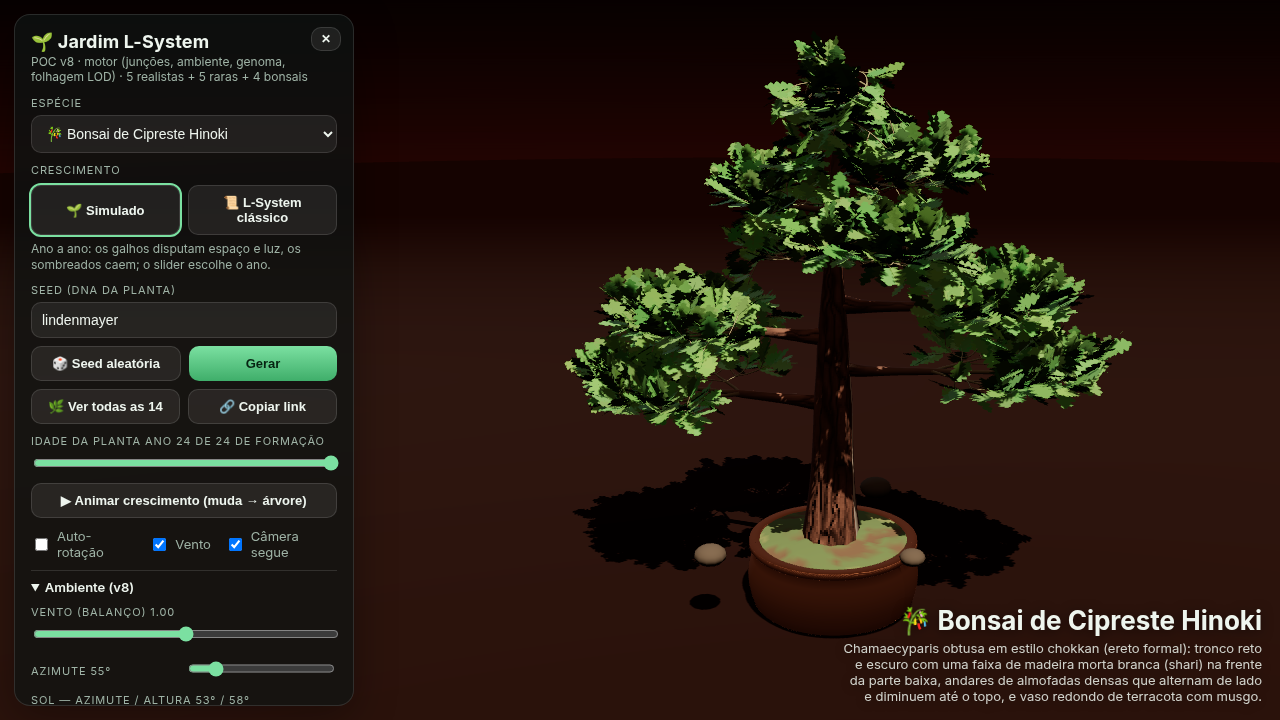
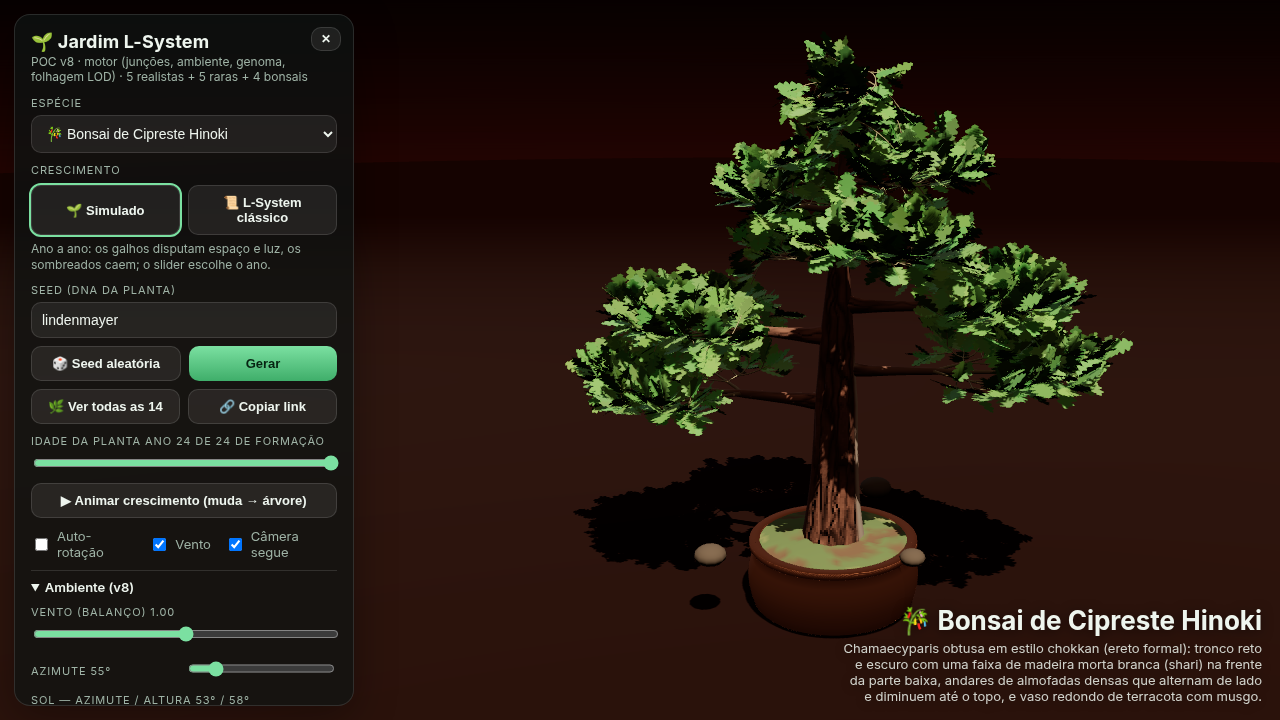
fix(v8): veio liso na madeira morta do junípero
O pontilhado era o shader da v7: seno de alta frequência e picos
no relevo. O shari/jin passa a ser prata contínua com sulcos longos
ao longo da torção, só no junípero e no cipreste.

diff --git a/index.html b/index.html
@@ -452,26 +452,28 @@ vec3 lsBark(vec3 base, vec3 nW){
   }
 #endif
 #ifdef LS_DEAD
-  { // v6: madeira morta do bonsai (shari no tronco, jin nos galhos): faixa em espiral no ângulo do tubo, branca/prateada e com veios
-    // uFx = (cobertura 0–1 da volta, torção rad/unidade de arco, arco máximo, fase) · uFx2 = (raio relativo mínimo, —, freq. dos veios, borda)
+  { // madeira morta: faixa em espiral, prata contínua com veios longos ao longo da torção
+    // uFx = (cobertura 0–1 da volta, torção rad/unidade de arco, arco máximo, fase) · uFx2 = (raio relativo mínimo, —, legado, borda)
+    // O veio antigo (seno ~27 ciclos/volta + ruído num círculo de raio uFx2.z, depois smoothstep nos picos)
+    // virava uma grade de pontos escuros — a v7 tinha o mesmo termo. Aqui o grão é esticado no arco.
     float th = atan(vFx.y, vFx.x), arc = vFx.z;
     float sp = th - uFx.y * arc - uFx.w;
-    float wob = 0.35 * (lsN(vec3(arc * 1.3, cos(sp) * 1.5, sin(sp) * 1.5) + 17.0) - 0.5);
+    float wob = 0.1 * (lsN(vec3(arc * 0.22, sp * 0.25, 17.0)) - 0.5);
     float c = cos(sp + wob);
-    float band = smoothstep(cos(3.14159 * uFx.x) - 0.04, cos(3.14159 * uFx.x) + 0.04, c);
+    float band = smoothstep(cos(3.14159 * uFx.x) - 0.1, cos(3.14159 * uFx.x) + 0.1, c);
     float rel = vMt.y / uRmax;
     float dead = band * (1.0 - smoothstep(uFx.z * 0.85, uFx.z, arc)) * smoothstep(uFx2.x * 0.7, uFx2.x, rel);
     dead = max(dead, step(0.5, vFx.w));                                  // jin: o galho inteiro morto
     dead *= smoothstep(0.05, 0.35, vMt.x);                               // a madeira morta é trabalhada com os anos
-    float grain = lsN(vec3(cos(sp) * uFx2.z, sin(sp) * uFx2.z, arc * 0.6));
-    float vein = 0.5 + 0.5 * sin((sp * 9.0 + 6.0 * grain) * uFx2.z * 0.5);
-    float crack = smoothstep(0.92, 0.99, vein) * detail;
-    vec3 dw = vec3(0.86, 0.84, 0.8) * (0.78 + 0.22 * grain) * (1.0 - 0.45 * crack);
-    float lip = smoothstep(0.0, uFx2.w, band) * (1.0 - smoothstep(uFx2.w, uFx2.w * 2.5, band)) * (1.0 - step(0.5, vFx.w));
+    float fiber = lsN(vec3(sp * 0.4, arc * 0.14, 4.0));                  // manchas longas ao longo do eixo
+    float line = 0.5 + 0.5 * sin(sp * 2.3 + 1.1 * lsN(vec3(arc * 0.2, 1.7, sp * 0.12)));
+    float crease = smoothstep(0.66, 0.28, line);                         // sulco largo, contínuo, sem pico isolado
+    vec3 dw = vec3(0.92, 0.90, 0.86) * (0.94 + 0.08 * fiber) * (1.0 - 0.13 * crease);
+    float lip = smoothstep(0.0, uFx2.w, band) * (1.0 - smoothstep(uFx2.w, uFx2.w * 3.0, band)) * (1.0 - step(0.5, vFx.w));
     col = mix(col, dw, dead);
-    col *= 1.0 - 0.35 * lip * dead;                                       // borda escura onde a casca viva enrola
-    hh = mix(hh, 0.4 + 0.25 * grain - 0.3 * crack, dead) + 0.25 * lip * dead;
-    lsRough = mix(lsRough, 0.75, dead);
+    col *= 1.0 - 0.18 * lip * dead;                                       // borda suave onde a casca viva enrola
+    hh = mix(hh, 0.72 + 0.05 * fiber - 0.045 * crease, dead) + 0.06 * lip * dead;
+    lsRough = mix(lsRough, 0.58, dead);
   }
 #endif
   // musgo nas faces viradas para cima da madeira velha

diff --git a/docs/ARQUITETURA.md b/docs/ARQUITETURA.md
@@ -272,5 +272,5 @@ A montagem pesada (L-System ou simulação) roda em `plant-worker.mjs` (`buildSk
 
 Por padrão os genes são **mostrados** e não aplicados, a gravidade e o fototropismo começam em 0 e a sombra da simulação continua vertical — o visual padrão acompanha a v7. Cruzar, mutar ou mover um gene passa a aplicar o genoma (`&genoma=` no hash).
 
-Junções: esferas só nas forquilhas grossas (tronco e andaime, inclusive o carvalho), com material simples de casca. No junípero e no cipreste a madeira morta continua o veio contínuo do shader (`LS_DEAD`), sem furar o tubo. Raízes de superfície desviam de três pedras semeadas e, no bonsai, permanecem dentro da elipse do vaso. No jardim a folhagem fica na densidade da v7 (no máximo 1 em cada 2 folhas, desenhadas maiores); o impostor só entra quando a planta ocupa menos de ~40 px.
+Junções: esferas só nas forquilhas grossas (tronco e andaime, inclusive o carvalho), com material simples de casca. No junípero e no cipreste a madeira morta é um veio longo e contínuo no shader (`LS_DEAD`): a v7 pontilhava a faixa com um seno de alta frequência. Sem furos no tubo. Raízes de superfície desviam de três pedras semeadas e, no bonsai, permanecem dentro da elipse do vaso. No jardim a folhagem fica na densidade da v7 (no máximo 1 em cada 2 folhas, desenhadas maiores); o impostor só entra quando a planta ocupa menos de ~40 px.
 

diff --git a/docs/HISTORICO.md b/docs/HISTORICO.md
@@ -7,7 +7,7 @@ Datas no horário de Brasília (UTC−3).
 - Visual padrão de novo alinhado à v7: genes só mudam a planta quando o usuário cruza, muta ou edita um controle. Gravidade e fototropismo começam em zero. A sombra simulada volta a cair na vertical até o sol sair do padrão.
 - Junções nas forquilhas grossas (inclui o carvalho), sem a malha que furava o junípero. Shari/jin entalhados no tubo.
 - Jardim montado em Web Workers (4): cerca de 2 s de CPU de esqueleto no headless, UI livre durante a simulação.
-- Madeira morta do junípero volta ao veio contínuo do shader da v7 (sem furos geométricos). No jardim a folhagem não rareia na distância do enquadramento; o impostor só entra quando a planta fica minúscula na tela.
+- Madeira morta do junípero e do cipreste: o pontilhado vinha do shader (o mesmo da v7) — seno de ~27 ciclos por volta com ruído, e os picos viravam buracos no relevo. Agora o veio é longo, esticado no eixo do tronco, sem pontos. No jardim a folhagem não rareia na distância do enquadramento; o impostor só entra quando a planta fica minúscula na tela.
 - Raízes desviam de pedras e do vaso. LOD por distância (metade / quarto das folhas, depois impostor).
 - Painel de genoma: dois pais, filho, sliders com nomes em português, mutação.
 
